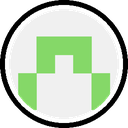
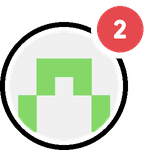
docs: commit-count badges on README contributors

diff --git a/scripts/update_contributors.py b/scripts/update_contributors.py
@@ -1,4 +1,8 @@
-"""Refresh linked, circular README avatars using GitHub contributor counts."""
+"""Refresh linked, circular README avatars using GitHub contributor counts.
+
+Each avatar carries a badge on its top right with the person's commit count
+(999, then 1K, 1.11K, 12.34K, 1M).
+"""
 import html
 import io
 import json
@@ -7,7 +11,7 @@ from pathlib import Path
 import subprocess
 from urllib.request import urlopen
 
-from PIL import Image, ImageDraw, ImageOps
+from PIL import Image, ImageDraw, ImageFont, ImageOps
 
 ROOT = Path(__file__).resolve().parents[1]
 START = '<!-- CONTRIBUTORS:START -->'
@@ -17,6 +21,45 @@ RING = 10         # ring width at SIZE
 GAP = 8           # transparent gap between ring and photo, so a dark photo
                   # never merges into a dark ring
 RINGS = {'dark': (255, 255, 255, 255), 'light': (0, 0, 0, 255)}
+
+# Commit-count badge, in display pixels (the avatar shows at 64 px; work at 4x).
+X = SIZE // 64
+BADGE_H = 23
+BADGE_TOP = -8     # badge top, relative to the avatar's top edge
+BADGE_INSET = 4    # badge centre sits this far left of the avatar's right edge
+CUTOUT = 3         # transparent space around the badge, so it looks cut out
+TOP = -BADGE_TOP + CUTOUT
+BADGE_RED = (229, 72, 77, 255)
+FONT = ImageFont.truetype(str(ROOT / 'assets/fonts/GoogleSans-Regular.ttf'), round(11.5 * X))
+
+
+def short(n):
+    """999 stays as is; then 1K, 1.11K, 12.34K (cut, not rounded, so 999,999 never reads 1000K)."""
+    for size, unit in ((10**9, 'B'), (10**6, 'M'), (10**3, 'K')):
+        if n >= size:
+            return f'{(n * 100 // size) / 100:g}{unit}'
+    return str(n)
+
+
+def badged(avatar, count):
+    """The ringed avatar (SIZE px) with a red count badge on its top right, at half size."""
+    label = short(count)
+    bw = max(BADGE_H, 10 + len(label) * 6.9)
+    width = max(64, 64 - BADGE_INSET + bw / 2 + CUTOUT)
+    out = Image.new('RGBA', (round(width * X), (64 + TOP) * X), (0, 0, 0, 0))
+    out.paste(avatar, (0, TOP * X), avatar)
+    draw = ImageDraw.Draw(out)
+    left = (64 - BADGE_INSET - bw / 2) * X
+    top = (TOP + BADGE_TOP) * X
+    box = (left, top, left + bw * X, top + BADGE_H * X)
+    pad = CUTOUT * X
+    cut = (box[0] - pad, box[1] - pad, box[2] + pad, box[3] + pad)
+    draw.rounded_rectangle(cut, radius=(BADGE_H / 2 + CUTOUT) * X, fill=(0, 0, 0, 0))
+    draw.rounded_rectangle(box, radius=BADGE_H / 2 * X, fill=BADGE_RED)
+    # Regular Google Sans with a thin stroke reads as semibold.
+    draw.text(((box[0] + box[2]) / 2, (box[1] + box[3]) / 2 + 0.3 * X), label,
+              font=FONT, anchor='mm', fill='white', stroke_width=2, stroke_fill='white')
+    return out.resize((out.width // 2, out.height // 2), Image.Resampling.LANCZOS)
 
 
 def ringed(photo, colour):
@@ -29,7 +72,7 @@ def ringed(photo, colour):
     mask = Image.new('L', (inner, inner), 0)
     ImageDraw.Draw(mask).ellipse((0, 0, inner - 1, inner - 1), fill=255)
     out.paste(face, (inset, inset), mask)
-    return out.resize((SIZE // 2, SIZE // 2), Image.Resampling.LANCZOS)
+    return out
 
 
 def main():
@@ -59,15 +102,18 @@ def main():
         # file per theme, picked by <picture>.
         with urlopen(user['avatar_url'], timeout=30) as response:
             photo = Image.open(io.BytesIO(response.read())).convert('RGBA')
+        count = int(user['contributions'])
         for theme, colour in RINGS.items():
             name = f'{uid}-{theme}.png'
-            ringed(photo, colour).save(output / name)
+            image = badged(ringed(photo, colour), count)
+            image.save(output / name)
             written.add(name)
+        label = f'{login}: {count} commit{"" if count == 1 else "s"}'
         lines.append(
             f'  <a href="https://github.com/{login}"><picture>'
             f'<source media="(prefers-color-scheme: dark)" srcset="{base}/{uid}-dark.png">'
-            f'<img src="{base}/{uid}-light.png" alt="{login}" title="{login}" '
-            f'width="64" height="64"></picture></a>'
+            f'<img src="{base}/{uid}-light.png" alt="{label}" title="{label}" '
+            f'width="{image.width // 2}" height="{image.height // 2}"></picture></a>'
         )
     lines.append('</p>')
     for stale in output.glob('*.png'):

diff --git a/README.md b/README.md
@@ -154,8 +154,8 @@ Thank you to everyone who contributes to Rafeeq! Listed by commit contributions,
 
 <!-- CONTRIBUTORS:START -->
 <p>
-  <a href="https://github.com/teamsazen"><picture><source media="(prefers-color-scheme: dark)" srcset=".github/readme/contributors/98111211-dark.png"><img src=".github/readme/contributors/98111211-light.png" alt="teamsazen" title="teamsazen" width="64" height="64"></picture></a>
-  <a href="https://github.com/abdushakoor12"><picture><source media="(prefers-color-scheme: dark)" srcset=".github/readme/contributors/60779242-dark.png"><img src=".github/readme/contributors/60779242-light.png" alt="abdushakoor12" title="abdushakoor12" width="64" height="64"></picture></a>
+  <a href="https://github.com/teamsazen"><picture><source media="(prefers-color-scheme: dark)" srcset=".github/readme/contributors/98111211-dark.png"><img src=".github/readme/contributors/98111211-light.png" alt="teamsazen: 58 commits" title="teamsazen: 58 commits" width="75" height="75"></picture></a>
+  <a href="https://github.com/abdushakoor12"><picture><source media="(prefers-color-scheme: dark)" srcset=".github/readme/contributors/60779242-dark.png"><img src=".github/readme/contributors/60779242-light.png" alt="abdushakoor12: 2 commits" title="abdushakoor12: 2 commits" width="74" height="75"></picture></a>
 </p>
 <!-- CONTRIBUTORS:END -->
 
